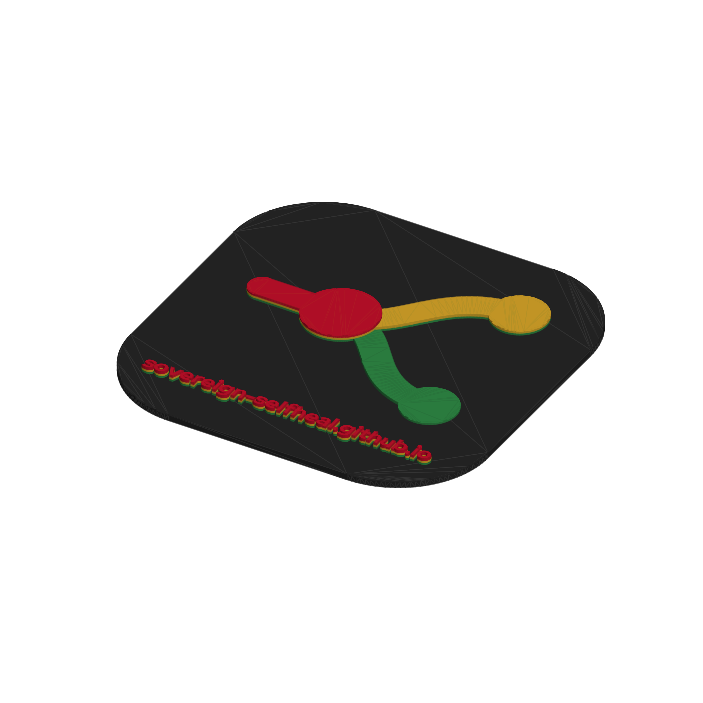
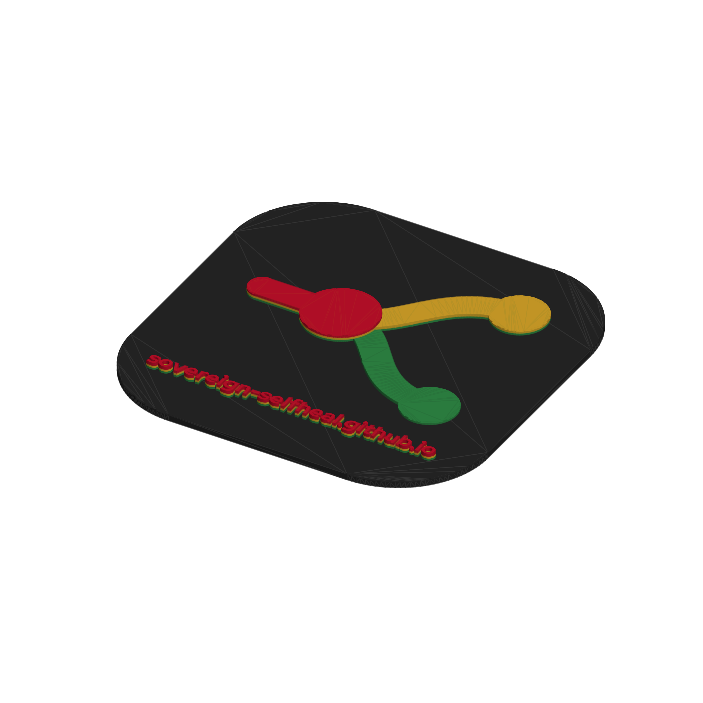
Plaque: the address 3 mm higher, clear of the stand
On the stand, the address looked too close to it: the tail of the g was
6 mm above the top of the stand, and the lowest dot of the mark was 14 mm
above the text, so the text seemed to rest on the stand. address_bottom
goes from 16 to 19 mm. The text now sits about halfway between the top of
the stand and the lowest dot of the mark (9 mm under it, 11 mm over it).
The mark, the stand and the coupon do not change.

A new test keeps the space under and over the address within 2 mm of each
other. The README lists address_bottom, and the previews of the plaque
follow.

Claude-Session: https://claude.ai/code/session_01D11URZEtS7HKnMAgxVCGzh

Changed region(s): [[0.1792, 0.5078, 0.6273, 0.6572]]

diff --git a/tests/test_parts.py b/tests/test_parts.py
@@ -278,6 +278,17 @@ def test_stand_hides_no_part_of_the_address():
     assert p.address_bottom > p.slot_depth + 2
 
 
+def test_address_sits_halfway_between_stand_and_mark():
+    # On the stand, the free space under the address (down to the top of the
+    # stand) and over it (up to the lowest dot of the mark) look about the same.
+    half = p.plaque_size / 2
+    address = _address().bounding_box()
+    mark = _union(mark_sketches(p.plaque_scale, (0.0, p.plaque_mark_shift))).bounding_box()
+    under = address.min.Y + half - p.slot_depth
+    over = mark.min.Y - address.max.Y
+    assert abs(under - over) < 2.0, f"{under:.1f} mm under the address, {over:.1f} mm over it"
+
+
 # --- Coupon --------------------------------------------------------------------
 
 

diff --git a/src/logo_3d/params.py b/src/logo_3d/params.py
@@ -134,8 +134,10 @@ class Params:
     #: Width of the line of text; the font size follows from it.
     address_width: float = 112.0
     #: Height of the lowest point of the text (the tail of the g) above the
-    #: bottom edge of the plaque. It keeps the text clear of the stand.
-    address_bottom: float = 16.0
+    #: bottom edge of the plaque. The stand hides the lowest ``slot_depth``
+    #: millimetres; at 19 mm the text sits about halfway between the top of the
+    #: stand and the lowest dot of the mark (9 mm under it, 11 mm over it).
+    address_bottom: float = 19.0
 
     # --- Keychain -------------------------------------------------------------
     #: Side of a keychain.

diff --git a/README.md b/README.md
@@ -154,6 +154,7 @@ The parameters worth knowing:
 | `plaque_size` | 140.0 | side of the plaque |
 | `address` | `sovereign-selfheal.github.io` | text under the mark |
 | `address_width` | 112.0 | width of the text; the font size follows from it |
+| `address_bottom` | 19.0 | height of the tail of the g above the bottom edge; the stand hides the lowest 10 mm |
 | `keychain_size` | 40.0 | side of a keychain |
 | `name_text` | `sovereign\|selfheal` | name on the keychain; `\|` starts a new line |
 | `ring_hole_dia` | 5.0 | hole for the key ring |
